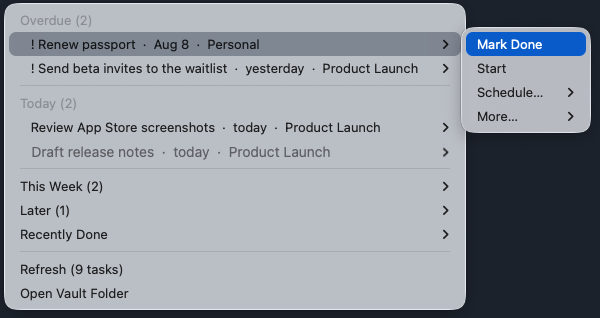
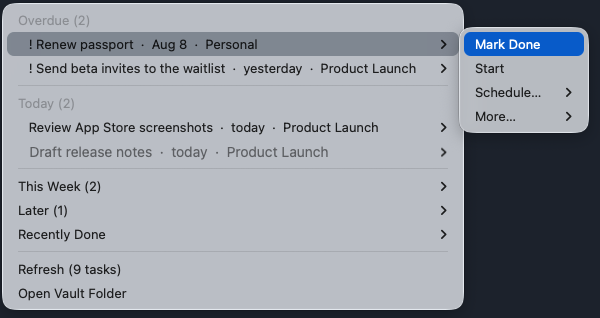
[feat] stop the menubar count shouting; re-record on a cleaned menubar
Red-for-overdue was the wrong lever. The overdue tier is lit on almost
any real vault, so an alarm colour is on nearly every day, and a signal
that never rests is decoration rather than information. It also encoded
the only tier distinction in hue alone, which is invisible to a
red-green colourblind reader and washes out over a bright wallpaper.

Inverted: nothing is louder than ordinary menubar text, and the states
you do not have to act on today recede instead. This week and the
backlog render dimmed, so a faint number reads as "nothing urgent"
without the bar raising its voice, and the one visually distinct state
is the rare, welcome one (the all-clear mark). Which tier it is stays a
hover or a click away.

Demo and menu shot re-recorded against a cleaned-up menubar, with the
pointer parked off-frame so Obsidian's toolbar tooltips stay out of it.

Changed region(s): [[0.0, 0.0, 0.9, 0.9906], [0.93, 0.0849, 0.99, 0.4245]]

diff --git a/README.md b/README.md
@@ -6,13 +6,13 @@
 
 </div>
 
-Obsidian holds your tasks, but it is rarely the app you're in when you wonder what's due. This script puts a count in the menubar: how many tasks are overdue, or if none are, how many are due today. The number turns red when something is overdue. Click it and each task carries Mark Done, Start, and reschedule actions that write back into the note.
+Obsidian holds your tasks, but it is rarely the app you're in when you wonder what's due. This script puts a count in the menubar: how many tasks are overdue, or if none are, how many are due today. Nothing about it is ever louder than ordinary menubar text, because a number that shouts every day stops being read. Click it and each task carries Mark Done, Start, and reschedule actions that write back into the note.
 
 It writes one line per action: the task line you clicked, and only after re-reading it on disk to confirm it still matches what the menu showed. If the note changed underneath, it refreshes instead of guessing. Everything is local: one ripgrep scan and a file watcher, no daemon and no network.
 
 <div align="center">
 
-<img src="assets/demo.gif" width="850" alt="The menubar shows 2 overdue tasks. Mark Done is picked from a task's submenu; the count drops to 1 and the task's checkbox in Obsidian flips to done with a completion date.">
+<img src="assets/demo.gif" width="800" alt="The menubar shows 2 overdue tasks. Mark Done is picked from a task's submenu; the count drops to 1 and the task's checkbox in Obsidian flips to done with a completion date.">
 
 </div>
 
@@ -63,7 +63,7 @@ Priorities `🔺⏫🔼🔽⏬` weight the sort order. A bare `YYYY-MM-DD` also 
 
 </div>
 
-- The menubar count covers one tier at a time: overdue if any, else today, else this week, else the backlog. The hover tooltip breaks down all three.
+- The menubar count covers one tier at a time: overdue if any, else today, else this week, else the backlog. This week and the backlog are dimmed, so a faint number means nothing is urgent; `☑` means nothing is pending at all. The hover tooltip breaks down overdue, today, and this week.
 - Overdue and Today stay inline. This Week, Later, and Recently Done collapse into submenus, each ending in an Obsidian search link for the full list.
 - Rows are rendered the way Obsidian renders them: date markers become `Aug 8` or `today`, links become their label, and `!` marks the two highest priorities. In-progress tasks are greyed. The raw line in your note is untouched.
 - Each task's submenu holds **Mark Done**, **Start**, **Schedule…** (Due Tomorrow, Due in 7 Days, Snooze 1 Week, which lands on a weekday), and **More…** (Cancel Task, Ignore All Tasks in This Note).
